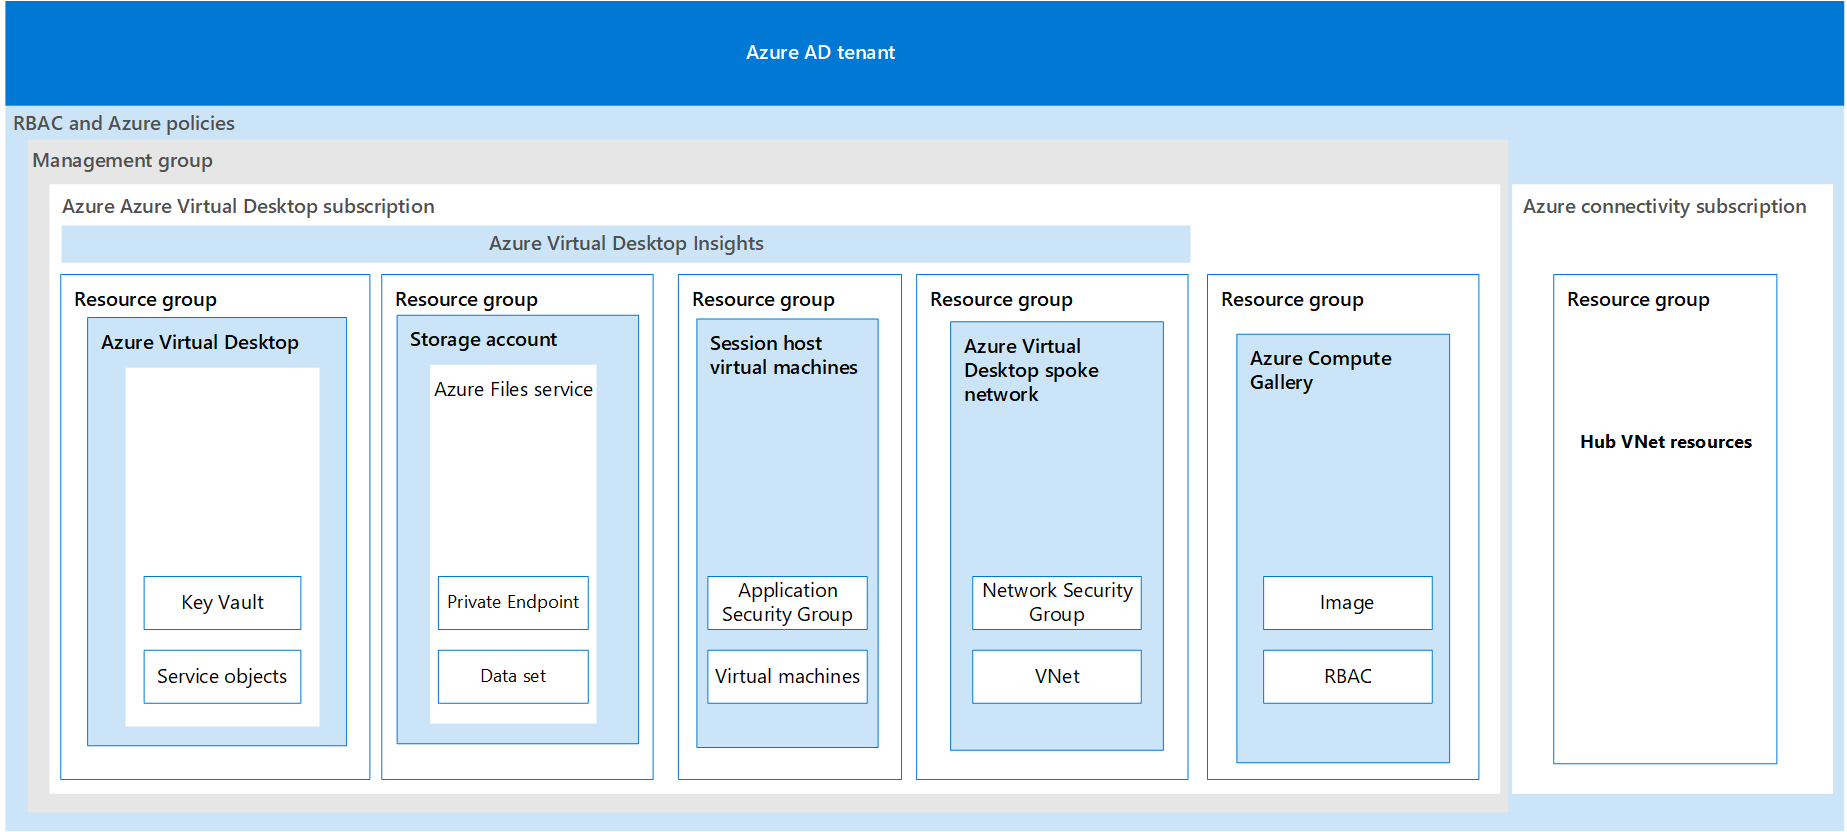
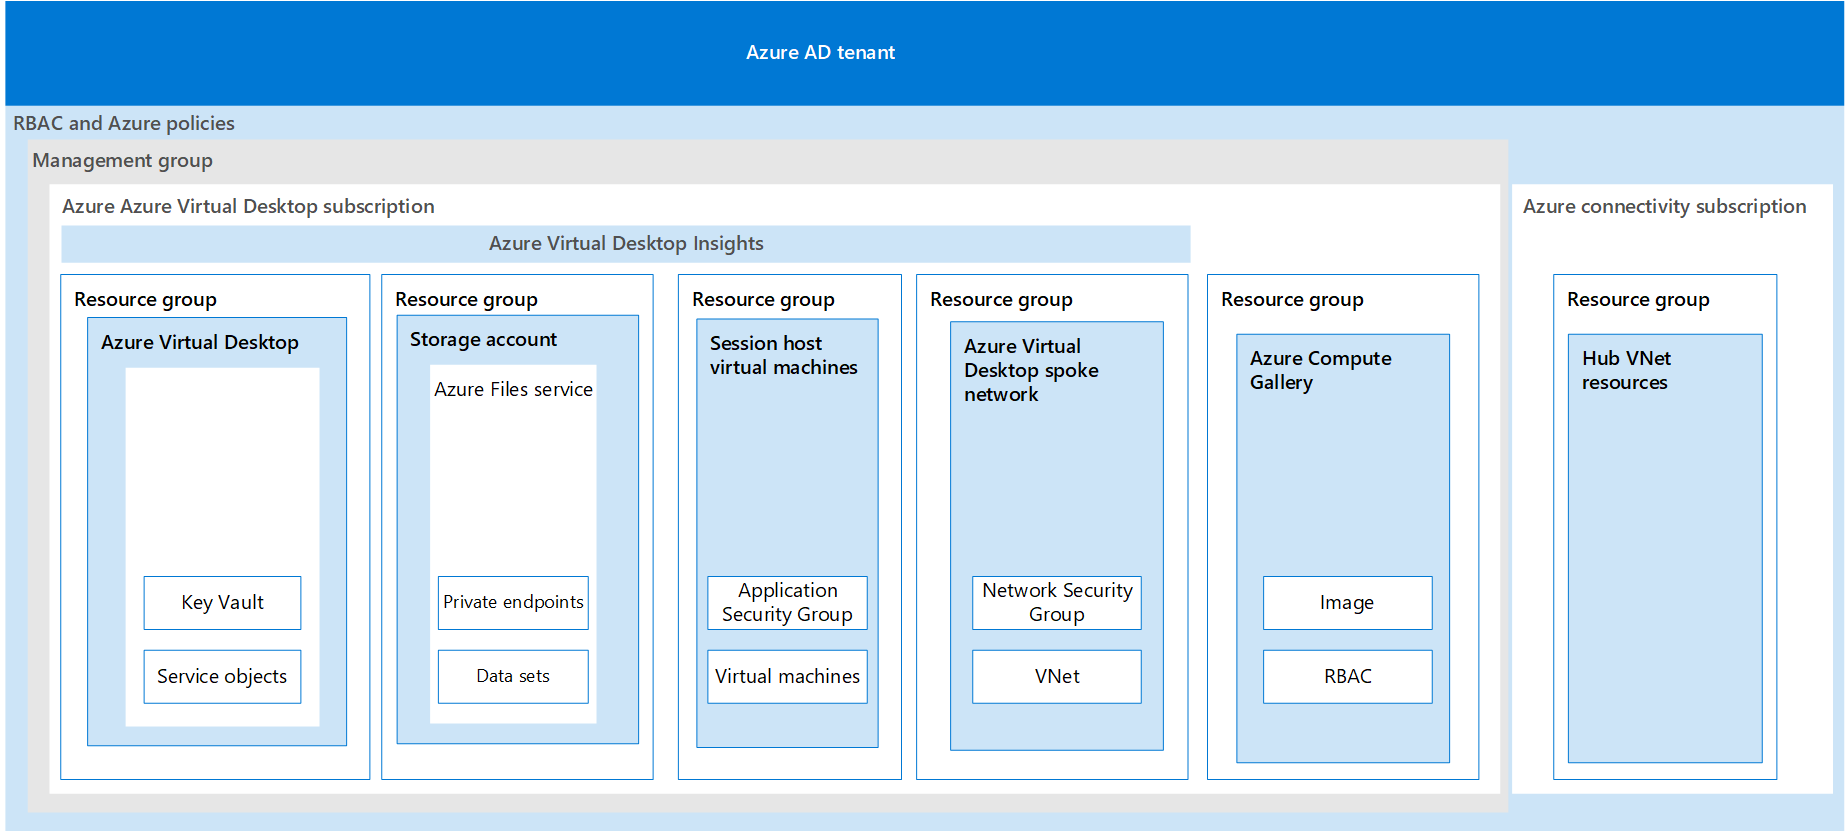
Final feedback and edit pass.

Changed region(s): [[0.8332, 0.375, 0.9567, 0.9375], [0.2469, 0.8125, 0.3086, 0.8438], [0.2469, 0.7188, 0.3086, 0.75]]

diff --git a/zero-trust/azure-infrastructure-avd.md b/zero-trust/azure-infrastructure-avd.md
@@ -1,6 +1,6 @@
 ---
 title: Apply Zero Trust principles to Azure Virtual Desktop
-description: Learn how to secure an Azure Virtual Desktop deployment with Zero Trust.   
+description: Learn how to secure an Azure Virtual Desktop deployment with Zero Trust principles. 
 ms.date: 02/17/2023
 ms.service: security
 author: JoeDavies-TechWriter
@@ -14,7 +14,7 @@ ms.collection:
 
 # Apply Zero Trust principles to an Azure Virtual Desktop deployment
 
-This article will help you apply the [principles of Zero Trust](zero-trust-overview.md#guiding-principles-of-zero-trust) to an Azure Virtual Desktop deployment in the following ways:
+This article provides steps to apply the [principles of Zero Trust](zero-trust-overview.md#guiding-principles-of-zero-trust) to an Azure Virtual Desktop deployment in the following ways:
 
 | Zero Trust principle | Definition | Met by |
 | --- | --- | --- |
@@ -23,57 +23,41 @@ This article will help you apply the [principles of Zero Trust](zero-trust-overv
 | Assume breach | Minimize blast radius and segment access. Verify end-to-end encryption and use analytics to get visibility, drive threat detection, and improve defenses. | <ul><li> Isolate the components of an Azure Virtual Desktop deployment. </li><li> Storage: Use Defender for Storage for automated threat detection and protection. </li><li> VNets: Prevent traffic flows between workloads with Azure Firewall. </li><li> Virtual machines: Use double encryption for end-to-end encryption, enable encryption at host, secure maintenance for virtual machines, and Microsoft Defender for Servers for threat detection. </li><li> 	Azure Virtual Desktop: Use Azure Virtual Desktop security, governance, management, and monitoring features to improve defenses and collect session host analytics. </li></ul>
  |
 
-This article is a part of a series of articles that demonstrate how to apply the principles of Zero Trust across an Azure environment that includes Azure Virtual Desktop. For more information, see the [Apply Zero Trust principles to Azure infrastructure overview](azure-infrastructure-overview.md).
+For more information about how to apply the principles of Zero Trust across an Azure IaaS environment, see the [Apply Zero Trust principles to Azure infrastructure overview](azure-infrastructure-overview.md).
 
 ## Reference architecture
 
-In this article, we'll use the following reference architecture for Hub and Spoke to demonstrate a commonly deployed environment and how to apply the principles of Zero Trust for Azure Virtual Desktop with users’ access over the Internet.  Azure Virtual [WAN](/azure/virtual-wan/virtual-wan-about) architecture is also supported as well as private access over managed network with [RDP Shortpath for Azure Virtual Desktop](/azure/virtual-desktop/rdp-shortpath?tabs=managed-networks).
+In this article, we'll use the following reference architecture for Hub and Spoke to demonstrate a commonly deployed environment and how to apply the principles of Zero Trust for Azure Virtual Desktop with users’ access over the Internet. [Azure Virtual WAN](/azure/virtual-wan/virtual-wan-about) architecture is also supported in addition to private access over a managed network with [RDP Shortpath for Azure Virtual Desktop](/azure/virtual-desktop/rdp-shortpath?tabs=managed-networks).
 
 :::image type="content" source="media/avd/ref-arch-avd.png" alt-text="Diagram of the reference architecture for Azure Virtual Desktop." lightbox="media/avd/ref-arch-avd.png":::
 
 The Azure environment for Azure Virtual Desktop includes:
 
-A. Azure Storage Services for Azure Virtual Desktop user profiles
-
-B. A connectivity hub virtual VNet
-
-C. A spoke VNet with Azure Virtual Desktop session host virtual machine-based workloads
-
-D. An Azure Virtual Desktop Control Plane
-
-E. An Azure Virtual Desktop Management Plane
-
-F. Dependent PaaS services (including Azure AD, Microsoft Defender for Cloud, RBAC, and Azure Monitor).
-
-G. Azure Compute Gallery
-
-<!--
-<ol style="list-style-type: upper-alpha">
-  <li>Azure Storage Services for Azure Virtual Desktop user profiles</li>
-  <li>A connectivity hub virtual VNet</li>
-  <li>A spoke VNet with Azure Virtual Desktop session host virtual machine-based workloads</li>
-  <li>An Azure Virtual Desktop Control Plane</li>
-  <li>An Azure Virtual Desktop Management Plane</li>
-  <li>Dependent PaaS services (including Azure AD, Microsoft Defender for Cloud, RBAC, and Azure Monitor).</li>
-  <li>Azure Compute Gallery</li>
-</ol>
--->
+| Component | Description |
+| --- | --- |
+| A | Azure Storage Services for Azure Virtual Desktop user profiles. |
+| B | A connectivity hub VNet. |
+| C | A spoke VNet with Azure Virtual Desktop session host virtual machine-based workloads. |
+| D | An Azure Virtual Desktop Control Plane. |
+| E | An Azure Virtual Desktop Management Plane. |
+| F | Dependent PaaS services including Azure Active Directory (Azure AD), Microsoft Defender for Cloud, role-based access control (RBAC), and Azure Monitor. |
+| G | Azure Compute Gallery. |
 
 Users or admins that access the Azure environment can originate from the internet, office locations, or on-premises datacenters.
 
-This reference architecture aligns to the architecture described in the Cloud Adoption Framework described in [Enterprise-scale landing zone for Azure Virtual Desktop](/azure/cloud-adoption-framework/scenarios/wvd/enterprise-scale-landing-zone).
+This reference architecture aligns to the architecture described in the [Enterprise-scale landing zone for Azure Virtual Desktop](/azure/cloud-adoption-framework/scenarios/wvd/enterprise-scale-landing-zone) Cloud Adoption Framework.
 
-## Logical architecture for Azure Virtual Desktop
+## Logical architecture
 
-In this diagram, the Azure infrastructure for an Azure Virtual Desktop deployment is contained within one Azure Active Directory (Azure AD) tenant.
+In this diagram, the Azure infrastructure for an Azure Virtual Desktop deployment is contained within one Azure AD tenant.
 
-:::image type="content" source="media/avd/logical-arch-avd.png" alt-text="Diagram of the components of a resource group for Azure Virtual Desktop." lightbox="media/avd/logical-arch-avd.png":::
+:::image type="content" source="media/avd/logical-arch-avd.png" alt-text="Diagram of the components of Azure Virtual Desktop in an Azure AD tenant." lightbox="media/avd/logical-arch-avd.png":::
 
 The elements of the logical architecture are:
 
-- Azure subscription for your Azure Virtual Desktop subscription
+- Azure subscription for your Azure Virtual Desktop
 
-  You can distribute the resources in more than one subscription, where each subscription may hold different roles, such as network subscription, or security subscription. This is described in [Cloud Adoption Framework and Azure Landing Zone](/azure/cloud-adoption-framework/scenarios/wvd/enterprise-scale-landing-zone). The different subscriptions may also hold different environments, such as production, development, and tests environments. It depends on how you want to separate your environment and the number of resources you will have in each. One or more subscriptions can be managed together using a Management Group. This will give you the ability to apply permissions with role-based access control (RBAC) and Azure policies to a group of subscriptions instead of setting up each subscription individually.
+  You can distribute the resources in more than one subscription, where each subscription may hold different roles, such as network subscription, or security subscription. This is described in [Cloud Adoption Framework and Azure Landing Zone](/azure/cloud-adoption-framework/scenarios/wvd/enterprise-scale-landing-zone). The different subscriptions may also hold different environments, such as production, development, and tests environments. It depends on how you want to separate your environment and the number of resources you will have in each. One or more subscriptions can be managed together using a Management Group. This will give you the ability to apply permissions with RBAC and Azure policies to a group of subscriptions instead of setting up each subscription individually.
 
 - Azure Virtual Desktop resource group
 
@@ -81,11 +65,11 @@ The elements of the logical architecture are:
 
 - Storage resource group
 
-  Resources provided by the Azure Files service, such as private endpoints and data sets for creating session hosts are isolated with a storage resource group.
+  Resources provided by the Azure Files service private endpoints and data sets are isolated with a storage resource group.
 
-- Session host VMs resource group
+- Session host virtual machines resource group
 
-  The virtual machines for the session hosts and an Application Security Group are isolated with a dedicated resource group.
+  The virtual machines for their session hosts and an Application Security Group are isolated with a dedicated resource group.
 
 - Spoke VNet resource group
 
@@ -93,21 +77,21 @@ The elements of the logical architecture are:
 
 ## What’s in this article?
 
-This article steps through the following to apply the principles of Zero Trust across the Azure Virtual Desktop reference and logical architecture.  
+This article walks through the steps to apply the principles of Zero Trust across the Azure Virtual Desktop reference architecture.
 
 | Step | Task | Zero Trust principle(s) applied |
 | --- | --- | --- |
 | 1 | Secure your identities with Zero Trust. | Verify explicitly |
 | 2 | Secure your endpoints with Zero Trust. | Verify explicitly |
-| 3 | Apply Zero Trust to Azure Virtual Desktop storage resources. | Verify explicitly <br> Use least privileged access <br> Assume breach |
-| 4 | Apply Zero Trust to hub and spoke Azure Virtual Desktop VNets. |  Verify explicitly <br> Use least privileged access <br> Assume breach |
-| 5 | Apply Zero Trust to Azure Virtual Desktop session host VMs. | Verify explicitly <br> Use least privileged access <br> Assume breach |
-| 6 | Deploy security, governance, and compliance of Azure Virtual Desktop desktops. | Assume breach |
-| 7 | Deploy secure management and monitoring of Azure Virtual Desktop desktops. | Assume breach |
+| 3 | Apply Zero Trust principles to Azure Virtual Desktop storage resources. | Verify explicitly <br> Use least privileged access <br> Assume breach |
+| 4 | Apply Zero Trust principles to hub and spoke Azure Virtual Desktop VNets. |  Verify explicitly <br> Use least privileged access <br> Assume breach |
+| 5 | Apply Zero Trust principles to Azure Virtual Desktop session host. | Verify explicitly <br> Use least privileged access <br> Assume breach |
+| 6 | Deploy security, governance, and compliance to Azure Virtual Desktop. | Assume breach |
+| 7 | Deploy secure management and monitoring to Azure Virtual Desktop. | Assume breach |
 
 ## Step 1. Secure your identities with Zero Trust
 
-To apply Zero Trust to the identities used in Azure Virtual Desktop:
+To apply Zero Trust principles to the identities used in Azure Virtual Desktop:
 
 - Azure Virtual Desktop supports different types of [identities](/azure/virtual-desktop/prerequisites#supported-identity-scenarios). Use the information in [Securing identity with Zero Trust](/security/zero-trust/deploy/identity) to ensure that your chosen identity types adhere to Zero Trust principles.
 - Create a dedicated user account with least privileges that you will need to join session hosts to an Azure AD DS or AD DS domain during session host [deployment](/azure/virtual-desktop/prerequisites#deployment-parameters).
@@ -121,44 +105,50 @@ Endpoints are the devices through which users access the Azure Virtual Desktop e
 Implement the steps in [Apply Zero Trust principles to Storage in Azure](azure-infrastructure-storage.md) for the storage resources being used in your Azure Virtual Desktop deployment. These steps ensure that you:
 
 - Secure your Azure Virtual Desktop data at rest, in transit, and in use.
-- Verify users and control access to storage data with the least privilege.
-- Implement Private endpoints for storage accounts.
-- Logically separate critical data with network controls. Such as separate storage accounts for different host pools and other purposes as with MSIX app attach file shares.
+- Verify users and control access to storage data with the least privileges.
+- Implement private endpoints for storage accounts.
+- Logically separate critical data with network controls. Such as separate storage accounts for different host pools and other purposes such as with MSIX app attach file shares.
 - Use Defender for Storage for automated threat protection.
 
-Note: In some designs [Azure NetApp files](/azure/virtual-desktop/create-fslogix-profile-container) is the storage service our choice which is supports FSLogix profiles for Azure Virtual Desktop via an SMB share. Azure NetApp Files provides built-in security features that include [delegated subnet](/azure/azure-netapp-files/azure-netapp-files-delegate-subnet) and [security benchmarks](/security/benchmark/azure/baselines/azure-netapp-files-security-baseline?toc=%2Fazure%2Fazure-netapp-files%2FTOC.json).
+>[!Note]
+>In some designs, [Azure NetApp files](/azure/virtual-desktop/create-fslogix-profile-container) is the storage service of choice for FSLogix profiles for Azure Virtual Desktop via an SMB share. Azure NetApp Files provides built-in security features that include [delegated subnets](/azure/azure-netapp-files/azure-netapp-files-delegate-subnet) and [security benchmarks](/security/benchmark/azure/baselines/azure-netapp-files-security-baseline?toc=%2Fazure%2Fazure-netapp-files%2FTOC.json).
+>
 
 ## Step 4. Apply Zero Trust principles to hub and spoke Azure Virtual Desktop VNets
 
 A hub VNet is a central point of connectivity for multiple spoke virtual networks. Implement the steps in [Apply Zero Trust principles to a hub virtual network in Azure](azure-infrastructure-networking.md) for the hub VNet being used to filter outbound traffic from your session hosts.
 
-A spoke VNets isolates the Azure Virtual Desktop workload and contains the session host virtual machines. Implement the steps in [Apply Zero Trust principles to spoke virtual network in Azure](azure-infrastructure-iaas.md) for the spoke  VNet that contain the virtual machines of your session hosts. Isolate different host pool on sperate VNETs together with [NSG](/azure/virtual-network/network-security-groups-overview) with the required URL necessary for Azure Virtual Desktop. Azure Firewall or a network virtual appliance (NVA) firewall can be used to control and restrict  outbound traffic for Azure Virtual Desktop session hosts.
+A spoke VNet isolates the Azure Virtual Desktop workload and contains the session host virtual machines. Implement the steps in [Apply Zero Trust principles to spoke virtual network in Azure](azure-infrastructure-iaas.md) for the spoke VNet that contain the session host/virtual machines.
 
-Use the instructions [here](/azure/firewall/protect-azure-virtual-desktop?tabs=azure) to use Azure Firewall to protect session hosts. Force the traffic through the firewall with [User-Defined Route (UDR)](/azure/virtual-network/virtual-networks-udr-overview#user-defined) linked to the Host pool subnet. Review the full list of required [Azure Virtual Desktop URLs](/azure/virtual-desktop/safe-url-list?tabs=azure) to configure your firewall. Azure Firewall provides an Azure Virtual Desktop [FQDN Tag](/azure/firewall/fqdn-tags#current-fqdn-tags) to simplify this configuration.
+Isolate different host pools on separate VNets using [NSG](/azure/virtual-network/network-security-groups-overview) with the required URL necessary for Azure Virtual Desktop. Azure Firewall or a network virtual appliance (NVA) firewall can be used to control and restrict outbound traffic for Azure Virtual Desktop session hosts.
 
-## Step 5. Apply Zero Trust principles to session hosts
+Use the instructions [here](/azure/firewall/protect-azure-virtual-desktop?tabs=azure) for Azure Firewall to protect session hosts. Force the traffic through the firewall with [User-Defined Routes (UDRs)](/azure/virtual-network/virtual-networks-udr-overview#user-defined) linked to the host pool subnet. Review the full list of required [Azure Virtual Desktop URLs](/azure/virtual-desktop/safe-url-list?tabs=azure) to configure your firewall. Azure Firewall provides an Azure Virtual Desktop [FQDN Tag](/azure/firewall/fqdn-tags#current-fqdn-tags) to simplify this configuration.
+
+## Step 5. Apply Zero Trust principles to Azure Virtual Desktop session hosts
 
 Session hosts are virtual machines that run inside a spoke VNet. Implement the steps in [Apply Zero Trust principles to virtual machines in Azure](azure-infrastructure-virtual-machines.md) for the virtual machines being created for your session hosts.
 
-[Host pools](/azure/virtual-desktop/environment-setup#host-pools) should have separator OUs if managed by [group policies](/windows-server/remote/remote-desktop-services/clients/rdp-files?context=%2Fazure%2Fvirtual-desktop%2Fcontext%2Fcontext) on [Active Directory Domain Services (AD DS)](/windows-server/identity/ad-ds/get-started/virtual-dc/active-directory-domain-services-overview). Microsoft Defender for Endpoint is an enterprise endpoint security platform designed to help enterprise networks prevent, detect, investigate, and respond to advanced threats. You can use Microsoft Defender for Endpoint for session hosts. See [virtual desktop infrastructure (VDI) devices](/windows/security/threat-protection/microsoft-defender-atp/configure-endpoints-vdi) for more information.
+[Host pools](/azure/virtual-desktop/environment-setup#host-pools) should have separated organizational units (OUs) if managed by [group policies](/windows-server/remote/remote-desktop-services/clients/rdp-files?context=%2Fazure%2Fvirtual-desktop%2Fcontext%2Fcontext) on [Active Directory Domain Services (AD DS)](/windows-server/identity/ad-ds/get-started/virtual-dc/active-directory-domain-services-overview).
 
-## Step 6. Deploy security, governance, and compliance of session hosts
+Microsoft Defender for Endpoint is an enterprise endpoint security platform designed to help enterprise networks prevent, detect, investigate, and respond to advanced threats. You can use Microsoft Defender for Endpoint for session hosts. for more information, see [virtual desktop infrastructure (VDI) devices](/windows/security/threat-protection/microsoft-defender-atp/configure-endpoints-vdi).
 
-Azure Virtual Desktop has built-in advanced security features to protect session hosts. However, there are additional steps to follow to improve the security defenses of your Azure Virtual Desktop environment and session hosts:
+## Step 6. Deploy security, governance, and compliance to Azure Virtual Desktop
+
+Azure Virtual Desktop has built-in advanced security features to protect session hosts. However, see the following articles to improve the security defenses of your Azure Virtual Desktop environment and session hosts:
 
 - [Azure Virtual Desktop security best practices](/azure/virtual-desktop/security-guide)
 - [Azure security baseline for Azure Virtual Desktop](/security/benchmark/azure/baselines/azure-virtual-desktop-security-baseline?context=%2Fazure%2Fvirtual-desktop%2Fcontext%2Fcontext)
 
 In addition, see the key design considerations and recommendations for [security, governance, and compliance](/azure/cloud-adoption-framework/scenarios/wvd/eslz-security-governance-and-compliance) in Azure Virtual Desktop landing zones in accordance with Microsoft's Cloud Adoption Framework.
 
-## Step 7. Configure management and monitoring of Azure Virtual Desktop environment
+## Step 7. Deploy secure management and monitoring to Azure Virtual Desktop
 
-Management and continuous monitoring are important to ensure that your Azure Virtual Desktop environment are not engaging in malicious behavior. Use [Azure Virtual Desktop Insights](/azure/virtual-desktop/insights) to log data and report diagnostic and usage data.
+Management and continuous monitoring are important to ensure that your Azure Virtual Desktop environment is not engaging in malicious behavior. Use [Azure Virtual Desktop Insights](/azure/virtual-desktop/insights) to log data and report diagnostic and usage data.
 
-Additionally:
+See these additional articles:
 
 - Review recommendations from [Azure Advisor for Azure Virtual Desktop](/azure/virtual-desktop/azure-advisor-recommendations).
-- Use [Microsoft Intune](/azure/virtual-desktop/management#microsoft-intune) for granular policy management or [group policy management](/windows-server/remote/remote-desktop-services/rds-vdi-recommendations). Create separate OU for different host pools.
+- Use [Microsoft Intune](/azure/virtual-desktop/management#microsoft-intune) for granular policy management or [group policy management](/windows-server/remote/remote-desktop-services/rds-vdi-recommendations).
 - Review and set [RDP Properties](/azure/virtual-desktop/rdp-properties) for granular settings on a host pool level.
 
 ## Recommended training
@@ -200,8 +190,9 @@ For more training on security in Azure, see these resources in the Microsoft cat
 
 ## Next Steps
 
-See these additional articles for Zero Trust deployment plans:
+See these additional articles for applying Zero Trust principles to Azure IaaS:
 
+- [Apply Zero Trust principles to Azure infrastructure overview](azure-infrastructure-overview.md)
 - [Apply Zero Trust principles to Azure storage](azure-infrastructure-storage.md)
 - [Apply Zero Trust principles to virtual machines](azure-infrastructure-virtual-machines.md)
 - [Apply Zero Trust principles to a spoke virtual network in Azure](azure-infrastructure-iaas.md)
